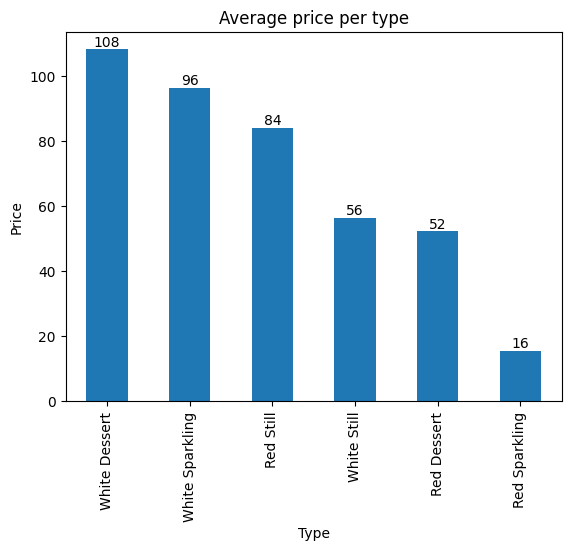
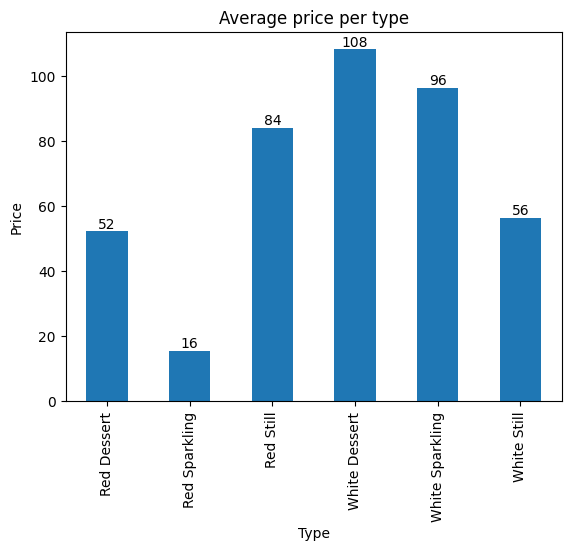
graphs modified

diff --git a/src/stats.py b/src/stats.py
@@ -3,12 +3,12 @@ import matplotlib.pyplot as plt
 
 dataset = pd.read_csv('src/updated_dataset.csv')
 
-def bar_graph(ds, title, xlabel, ylabel):
-    # Sort the data series in descending order
-    ds_sorted = ds.sort_values(ascending=False)
-
-    # Select the top 20 values
-    ds_top20 = ds_sorted.head(20)
+def bar_graph(ds, title, xlabel, ylabel, sort):
+    
+    if sort:
+        ds_top20 = ds.sort_values(ascending=False).head(20)
+    else:
+        ds_top20 = ds.head(20)
 
     # Create the bar graph
     graph = ds_top20.plot(kind='bar')
@@ -79,19 +79,19 @@ print("\n4. Reviewers per number of reviews:")
 print(reviewers_per_number_of_reviews)
 
 # Plot the results
-bar_graph(wine_count_by_type, 'Number of wines per type', 'Type', 'Number')
-bar_graph(wine_count_by_region, 'Number of wines per region', 'Region', 'Number')
-bar_graph(wine_count_by_winery, 'Number of wines per winery', 'Winery', 'Number')
-bar_graph(wines_per_price_range, 'Number of wines per price range', 'Price', 'Number')
-bar_graph(wines_per_score, 'Number of wines per score', 'Score', 'Number')
+bar_graph(wine_count_by_type, 'Number of wines per type', 'Type', 'Number', False)
+bar_graph(wine_count_by_region, 'Number of wines per region', 'Region', 'Number', True)
+bar_graph(wine_count_by_winery, 'Number of wines per winery', 'Winery', 'Number', True)
+bar_graph(wines_per_price_range, 'Number of wines per price range', 'Price', 'Number', False)
+bar_graph(wines_per_score, 'Number of wines per score', 'Score', 'Number', False)
 
-bar_graph(avg_score_per_type, 'Average score per type', 'Type', 'Score')
-bar_graph(avg_score_per_region, 'Average score per region', 'Region', 'Score')
-bar_graph(avg_score_per_winery, 'Average score per winery', 'Winery', 'Score')
+bar_graph(avg_score_per_type, 'Average score per type', 'Type', 'Score', False)
+bar_graph(avg_score_per_region, 'Average score per region', 'Region', 'Score', True)
+bar_graph(avg_score_per_winery, 'Average score per winery', 'Winery', 'Score', True)
 
-bar_graph(avg_price_per_type, 'Average price per type', 'Type', 'Price')
-bar_graph(avg_price_per_region, 'Average price per region', 'Region', 'Price')
-bar_graph(avg_price_per_winery, 'Average price per winery', 'Winery', 'Price')
+bar_graph(avg_price_per_type, 'Average price per type', 'Type', 'Price', False)
+bar_graph(avg_price_per_region, 'Average price per region', 'Region', 'Price', True)
+bar_graph(avg_price_per_winery, 'Average price per winery', 'Winery', 'Price', True)
 
-bar_graph(reviewers_per_number_of_reviews, 'Reviewers per number of reviews', 'Number of reviews', 'Number of reviewers')
+bar_graph(reviewers_per_number_of_reviews, 'Number of reviews per reviewer', 'Reviewers', 'Number of reviews', False)
 
